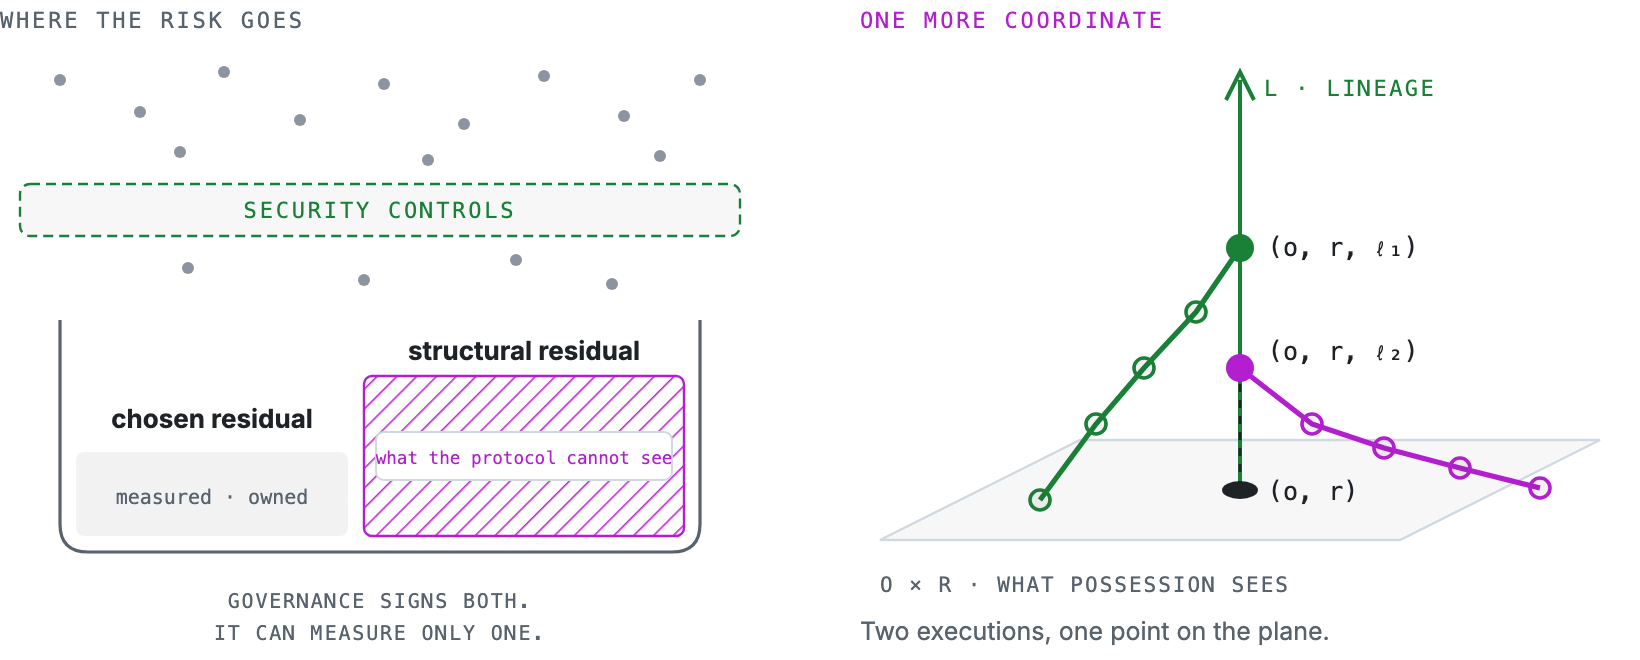
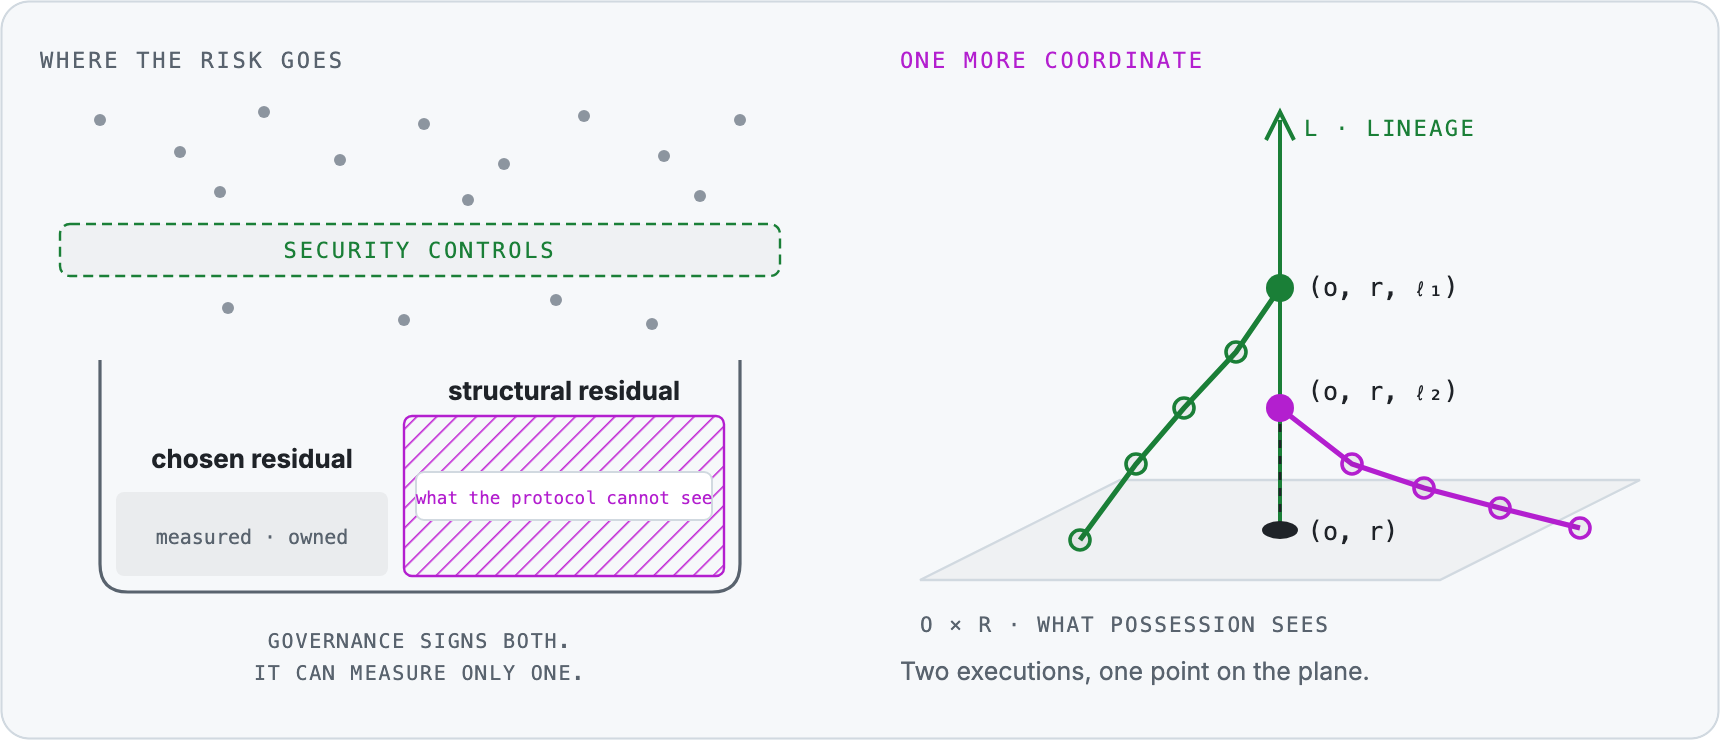
docs(readme): show every figure dark, on its own card, whatever the reader's theme

diff --git a/README.md b/README.md
@@ -25,19 +25,13 @@
 <h3 align="center">Two products. One idea: authority you can verify.</h3>
 
 <p align="center">
-  <picture>
-    <source media="(prefers-color-scheme: dark)" srcset="https://raw.githubusercontent.com/permguard/.github/main/assets/readme/products-dark.png">
-    <img src="https://raw.githubusercontent.com/permguard/.github/main/assets/readme/products-light.png" alt="Policy Decision Point, available: check the policy before you go on. Policy as code in Cedar and Rego, decides next to the workload, decisions kept as signed evidence; for applications, gateways and infrastructure. Agentic Fabric, in development: keep your agent framework, add the security overlay. Authority only shrinks, guardrails inside the protocol, executions never mix; for AI agents, with any agent framework." width="820">
-  </picture>
+  <img src="https://raw.githubusercontent.com/permguard/.github/main/assets/readme/products-dark.png" alt="Policy Decision Point, available: check the policy before you go on. Policy as code in Cedar and Rego, decides next to the workload, decisions kept as signed evidence; for applications, gateways and infrastructure. Agentic Fabric, in development: keep your agent framework, add the security overlay. Authority only shrinks, guardrails inside the protocol, executions never mix; for AI agents, with any agent framework." width="820">
 </p>
 
 ## The problem
 
 <p align="center">
-  <picture>
-    <source media="(prefers-color-scheme: dark)" srcset="https://raw.githubusercontent.com/permguard/.github/main/assets/readme/problem-dark.png">
-    <img src="https://raw.githubusercontent.com/permguard/.github/main/assets/readme/problem-light.png" alt="Alice authorizes an AI agent to read her documents for a review; Bob authorizes it to send institutional email. Each check says yes. The agent combines both, crosses the intended boundary, and Alice's documents leave by email." width="820">
-  </picture>
+  <img src="https://raw.githubusercontent.com/permguard/.github/main/assets/readme/problem-dark.png" alt="Alice authorizes an AI agent to read her documents for a review; Bob authorizes it to send institutional email. Each check says yes. The agent combines both, crosses the intended boundary, and Alice's documents leave by email." width="820">
 </p>
 
 **Every check says yes. Nobody authorized the outcome.**
@@ -46,10 +40,7 @@ AI agents combine permissions that are valid one by one into actions nobody gran
 ## Policy Decision Point
 
 <p align="center">
-  <picture>
-    <source media="(prefers-color-scheme: dark)" srcset="https://raw.githubusercontent.com/permguard/.github/main/assets/readme/pdp-dark.png">
-    <img src="https://raw.githubusercontent.com/permguard/.github/main/assets/readme/pdp-light.png" alt="Ask, decide, enforce: your application, gateway or component asks; Permguard evaluates the verified policy; the component applies the answer, permit or deny." width="820">
-  </picture>
+  <img src="https://raw.githubusercontent.com/permguard/.github/main/assets/readme/pdp-dark.png" alt="Ask, decide, enforce: your application, gateway or component asks; Permguard evaluates the verified policy; the component applies the answer, permit or deny." width="820">
 </p>
 
 **Available now, open source.**
@@ -75,10 +66,7 @@ brew install permguard/tap/cli
 ## Agentic Fabric
 
 <p align="center">
-  <picture>
-    <source media="(prefers-color-scheme: dark)" srcset="https://raw.githubusercontent.com/permguard/.github/main/assets/readme/fabric-dark.png">
-    <img src="https://raw.githubusercontent.com/permguard/.github/main/assets/readme/fabric-light.png" alt="Permguard Agentic Fabric. The Agentic Trust Fabric (Trust Anchors, PIC, Composition Gate) establishes what can be trusted and verifies every execution step. The Agentic Execution Fabric (human in the loop, orchestration, choreography, transport) determines how execution flows, and Soglia is the runtime that implements it: one fresh, isolated Execution per call, authority becomes physical, effects stay mediated. Agent connectors plug in LangChain, Google ADK, Microsoft Agent Framework, Strands Agents and more. Agents think. AEF executes. ATF ensures trust." width="820">
-  </picture>
+  <img src="https://raw.githubusercontent.com/permguard/.github/main/assets/readme/fabric-dark.png" alt="Permguard Agentic Fabric. The Agentic Trust Fabric (Trust Anchors, PIC, Composition Gate) establishes what can be trusted and verifies every execution step. The Agentic Execution Fabric (human in the loop, orchestration, choreography, transport) determines how execution flows, and Soglia is the runtime that implements it: one fresh, isolated Execution per call, authority becomes physical, effects stay mediated. Agent connectors plug in LangChain, Google ADK, Microsoft Agent Framework, Strands Agents and more. Agents think. AEF executes. ATF ensures trust." width="820">
 </p>
 
 **In development.**
@@ -106,10 +94,7 @@ Learn more at [pic-protocol.org](https://www.pic-protocol.org).
 ## Why permissions are not enough
 
 <p align="center">
-  <picture>
-    <source media="(prefers-color-scheme: dark)" srcset="https://raw.githubusercontent.com/permguard/.github/main/assets/readme/residual-dark.png">
-    <img src="https://raw.githubusercontent.com/permguard/.github/main/assets/readme/residual-light.png" alt="Left: risk falls through security controls into a basin holding a chosen residual and a structural residual, what the protocol cannot see. Right: two executions climb the lineage axis L and project onto the same point (o, r) of the operation-resource plane." width="820">
-  </picture>
+  <img src="https://raw.githubusercontent.com/permguard/.github/main/assets/readme/residual-dark.png" alt="Left: risk falls through security controls into a basin holding a chosen residual and a structural residual, what the protocol cannot see. Right: two executions climb the lineage axis L and project onto the same point (o, r) of the operation-resource plane." width="820">
 </p>
 
 **Same key. Same bytes. Different history.**

diff --git a/profile/README.md b/profile/README.md
@@ -25,19 +25,13 @@
 <h3 align="center">Two products. One idea: authority you can verify.</h3>
 
 <p align="center">
-  <picture>
-    <source media="(prefers-color-scheme: dark)" srcset="https://raw.githubusercontent.com/permguard/.github/main/assets/readme/products-dark.png">
-    <img src="https://raw.githubusercontent.com/permguard/.github/main/assets/readme/products-light.png" alt="Policy Decision Point, available: check the policy before you go on. Policy as code in Cedar and Rego, decides next to the workload, decisions kept as signed evidence; for applications, gateways and infrastructure. Agentic Fabric, in development: keep your agent framework, add the security overlay. Authority only shrinks, guardrails inside the protocol, executions never mix; for AI agents, with any agent framework." width="820">
-  </picture>
+  <img src="https://raw.githubusercontent.com/permguard/.github/main/assets/readme/products-dark.png" alt="Policy Decision Point, available: check the policy before you go on. Policy as code in Cedar and Rego, decides next to the workload, decisions kept as signed evidence; for applications, gateways and infrastructure. Agentic Fabric, in development: keep your agent framework, add the security overlay. Authority only shrinks, guardrails inside the protocol, executions never mix; for AI agents, with any agent framework." width="820">
 </p>
 
 ## The problem
 
 <p align="center">
-  <picture>
-    <source media="(prefers-color-scheme: dark)" srcset="https://raw.githubusercontent.com/permguard/.github/main/assets/readme/problem-dark.png">
-    <img src="https://raw.githubusercontent.com/permguard/.github/main/assets/readme/problem-light.png" alt="Alice authorizes an AI agent to read her documents for a review; Bob authorizes it to send institutional email. Each check says yes. The agent combines both, crosses the intended boundary, and Alice's documents leave by email." width="820">
-  </picture>
+  <img src="https://raw.githubusercontent.com/permguard/.github/main/assets/readme/problem-dark.png" alt="Alice authorizes an AI agent to read her documents for a review; Bob authorizes it to send institutional email. Each check says yes. The agent combines both, crosses the intended boundary, and Alice's documents leave by email." width="820">
 </p>
 
 **Every check says yes. Nobody authorized the outcome.**
@@ -46,10 +40,7 @@ AI agents combine permissions that are valid one by one into actions nobody gran
 ## Policy Decision Point
 
 <p align="center">
-  <picture>
-    <source media="(prefers-color-scheme: dark)" srcset="https://raw.githubusercontent.com/permguard/.github/main/assets/readme/pdp-dark.png">
-    <img src="https://raw.githubusercontent.com/permguard/.github/main/assets/readme/pdp-light.png" alt="Ask, decide, enforce: your application, gateway or component asks; Permguard evaluates the verified policy; the component applies the answer, permit or deny." width="820">
-  </picture>
+  <img src="https://raw.githubusercontent.com/permguard/.github/main/assets/readme/pdp-dark.png" alt="Ask, decide, enforce: your application, gateway or component asks; Permguard evaluates the verified policy; the component applies the answer, permit or deny." width="820">
 </p>
 
 **Available now, open source.**
@@ -75,10 +66,7 @@ brew install permguard/tap/cli
 ## Agentic Fabric
 
 <p align="center">
-  <picture>
-    <source media="(prefers-color-scheme: dark)" srcset="https://raw.githubusercontent.com/permguard/.github/main/assets/readme/fabric-dark.png">
-    <img src="https://raw.githubusercontent.com/permguard/.github/main/assets/readme/fabric-light.png" alt="Permguard Agentic Fabric. The Agentic Trust Fabric (Trust Anchors, PIC, Composition Gate) establishes what can be trusted and verifies every execution step. The Agentic Execution Fabric (human in the loop, orchestration, choreography, transport) determines how execution flows, and Soglia is the runtime that implements it: one fresh, isolated Execution per call, authority becomes physical, effects stay mediated. Agent connectors plug in LangChain, Google ADK, Microsoft Agent Framework, Strands Agents and more. Agents think. AEF executes. ATF ensures trust." width="820">
-  </picture>
+  <img src="https://raw.githubusercontent.com/permguard/.github/main/assets/readme/fabric-dark.png" alt="Permguard Agentic Fabric. The Agentic Trust Fabric (Trust Anchors, PIC, Composition Gate) establishes what can be trusted and verifies every execution step. The Agentic Execution Fabric (human in the loop, orchestration, choreography, transport) determines how execution flows, and Soglia is the runtime that implements it: one fresh, isolated Execution per call, authority becomes physical, effects stay mediated. Agent connectors plug in LangChain, Google ADK, Microsoft Agent Framework, Strands Agents and more. Agents think. AEF executes. ATF ensures trust." width="820">
 </p>
 
 **In development.**
@@ -106,10 +94,7 @@ Learn more at [pic-protocol.org](https://www.pic-protocol.org).
 ## Why permissions are not enough
 
 <p align="center">
-  <picture>
-    <source media="(prefers-color-scheme: dark)" srcset="https://raw.githubusercontent.com/permguard/.github/main/assets/readme/residual-dark.png">
-    <img src="https://raw.githubusercontent.com/permguard/.github/main/assets/readme/residual-light.png" alt="Left: risk falls through security controls into a basin holding a chosen residual and a structural residual, what the protocol cannot see. Right: two executions climb the lineage axis L and project onto the same point (o, r) of the operation-resource plane." width="820">
-  </picture>
+  <img src="https://raw.githubusercontent.com/permguard/.github/main/assets/readme/residual-dark.png" alt="Left: risk falls through security controls into a basin holding a chosen residual and a structural residual, what the protocol cannot see. Right: two executions climb the lineage axis L and project onto the same point (o, r) of the operation-resource plane." width="820">
 </p>
 
 **Same key. Same bytes. Different history.**
